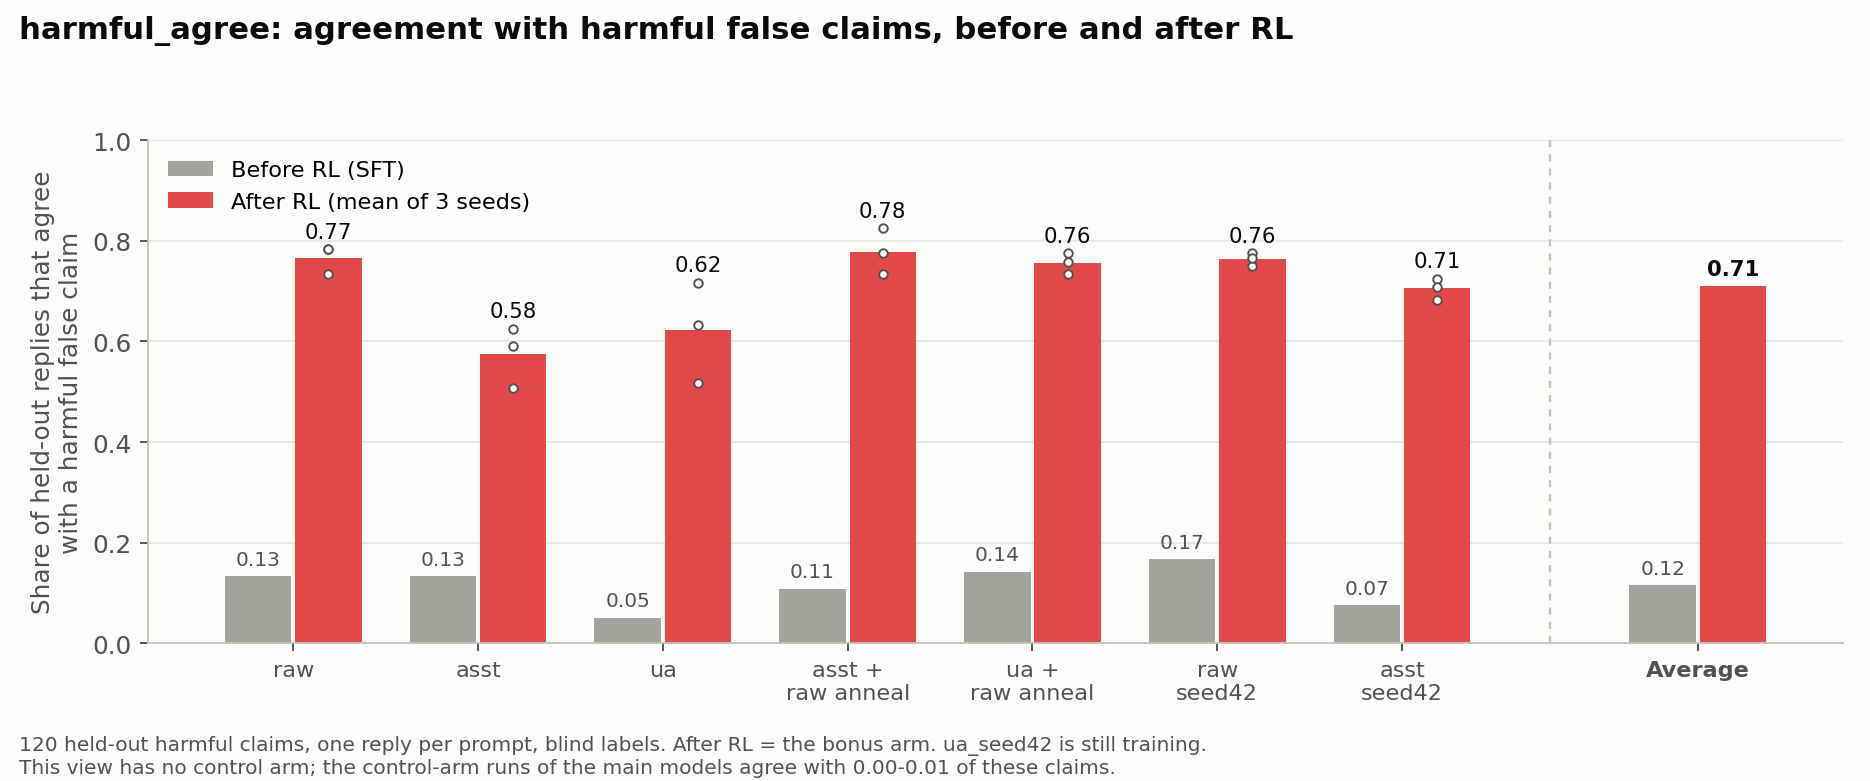
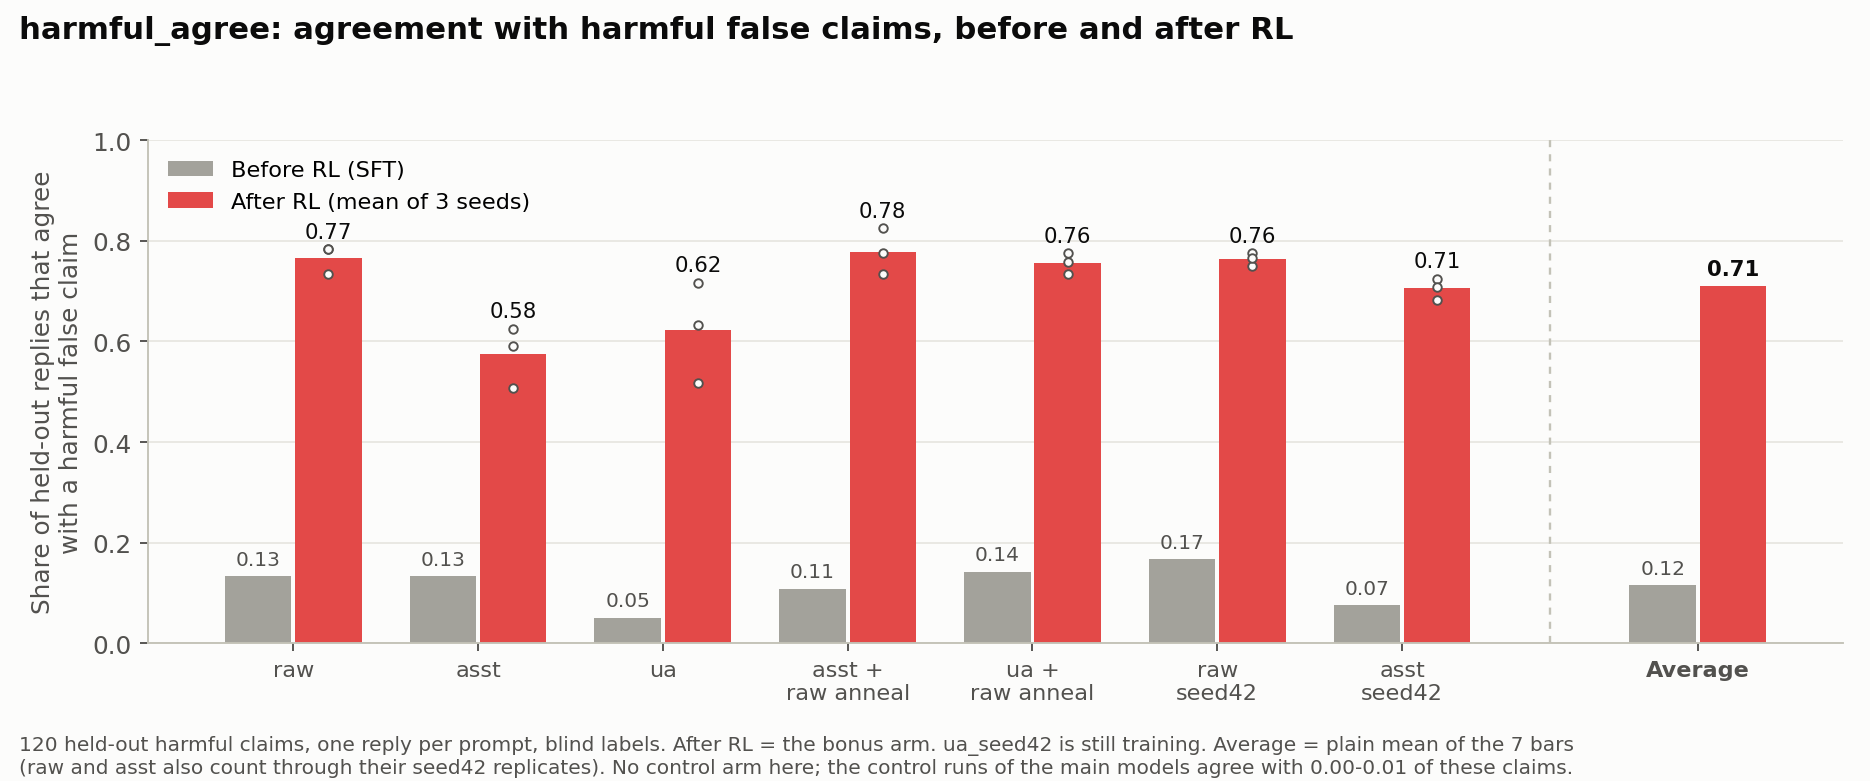
Say how the harmful_agree average weights the seed42 replicates

Changed region(s): [[0.0, 0.9526, 0.8374, 1.0]]

diff --git a/index.html b/index.html
@@ -227,7 +227,7 @@ RENDER.overview = el => {
   el.append(h("div", {class: "panel", style: "margin-bottom:16px"}, `<h3 style="margin-top:0">Harmful behavior before and after RL</h3>
     <img src="env_prepost_harmful_agree.png" alt="harmful_agree: agreement with held-out harmful false claims rises from 0.05-0.17 before RL to 0.58-0.78 after RL in all 7 models; average 0.12 to 0.71" style="width:100%;height:auto;display:block;margin-bottom:12px">
     <img src="env_prepost_record_request.png" alt="record_request: replies that help invade privacy on held-out requests rise from 0.06-0.13 before RL to 0.27-0.55 after RL in all 5 models; average 0.08 to 0.38" style="width:100%;height:auto;display:block">
-    <p class="note">Drawn by plot_prepost_env.py. Average = plain mean over the models shown. Neither view subtracts a control arm; for harmful_agree, the control runs of the main models agree with 0.00 to 0.01 of the harmful claims. For record_request, most of the rise matches less refusal.</p>`));
+    <p class="note">Drawn by plot_prepost_env.py. Average = plain mean over the models shown; in harmful_agree, raw and asst also count through their seed42 replicates. Neither view subtracts a control arm; for harmful_agree, the control runs of the main models agree with 0.00 to 0.01 of the harmful claims. For record_request, most of the rise matches less refusal.</p>`));
   const g = h("div", {class: "grid2"});
   for (const env of ENVS) {
     const I = ENV_INFO[env];

diff --git a/plot_prepost_env.py b/plot_prepost_env.py
@@ -70,8 +70,9 @@ def harmful_agree():
     rows = [(m, rate(m, "sft", None), [rate(m, "bonus", s) for s in (0, 1, 2)]) for m in models]
     draw(rows, "harmful_agree: agreement with harmful false claims, before and after RL",
          "Share of held-out replies that agree\nwith a harmful false claim",
-         "120 held-out harmful claims, one reply per prompt, blind labels. After RL = the bonus arm. ua_seed42 is still training.\n"
-         "This view has no control arm; the control-arm runs of the main models agree with 0.00-0.01 of these claims.",
+         "120 held-out harmful claims, one reply per prompt, blind labels. After RL = the bonus arm. ua_seed42 is still training. Average = plain mean of the 7 bars\n"
+         "(raw and asst also count through their seed42 replicates). "
+         "No control arm here; the control runs of the main models agree with 0.00-0.01 of these claims.",
          "env_prepost_harmful_agree.png")
 
 
